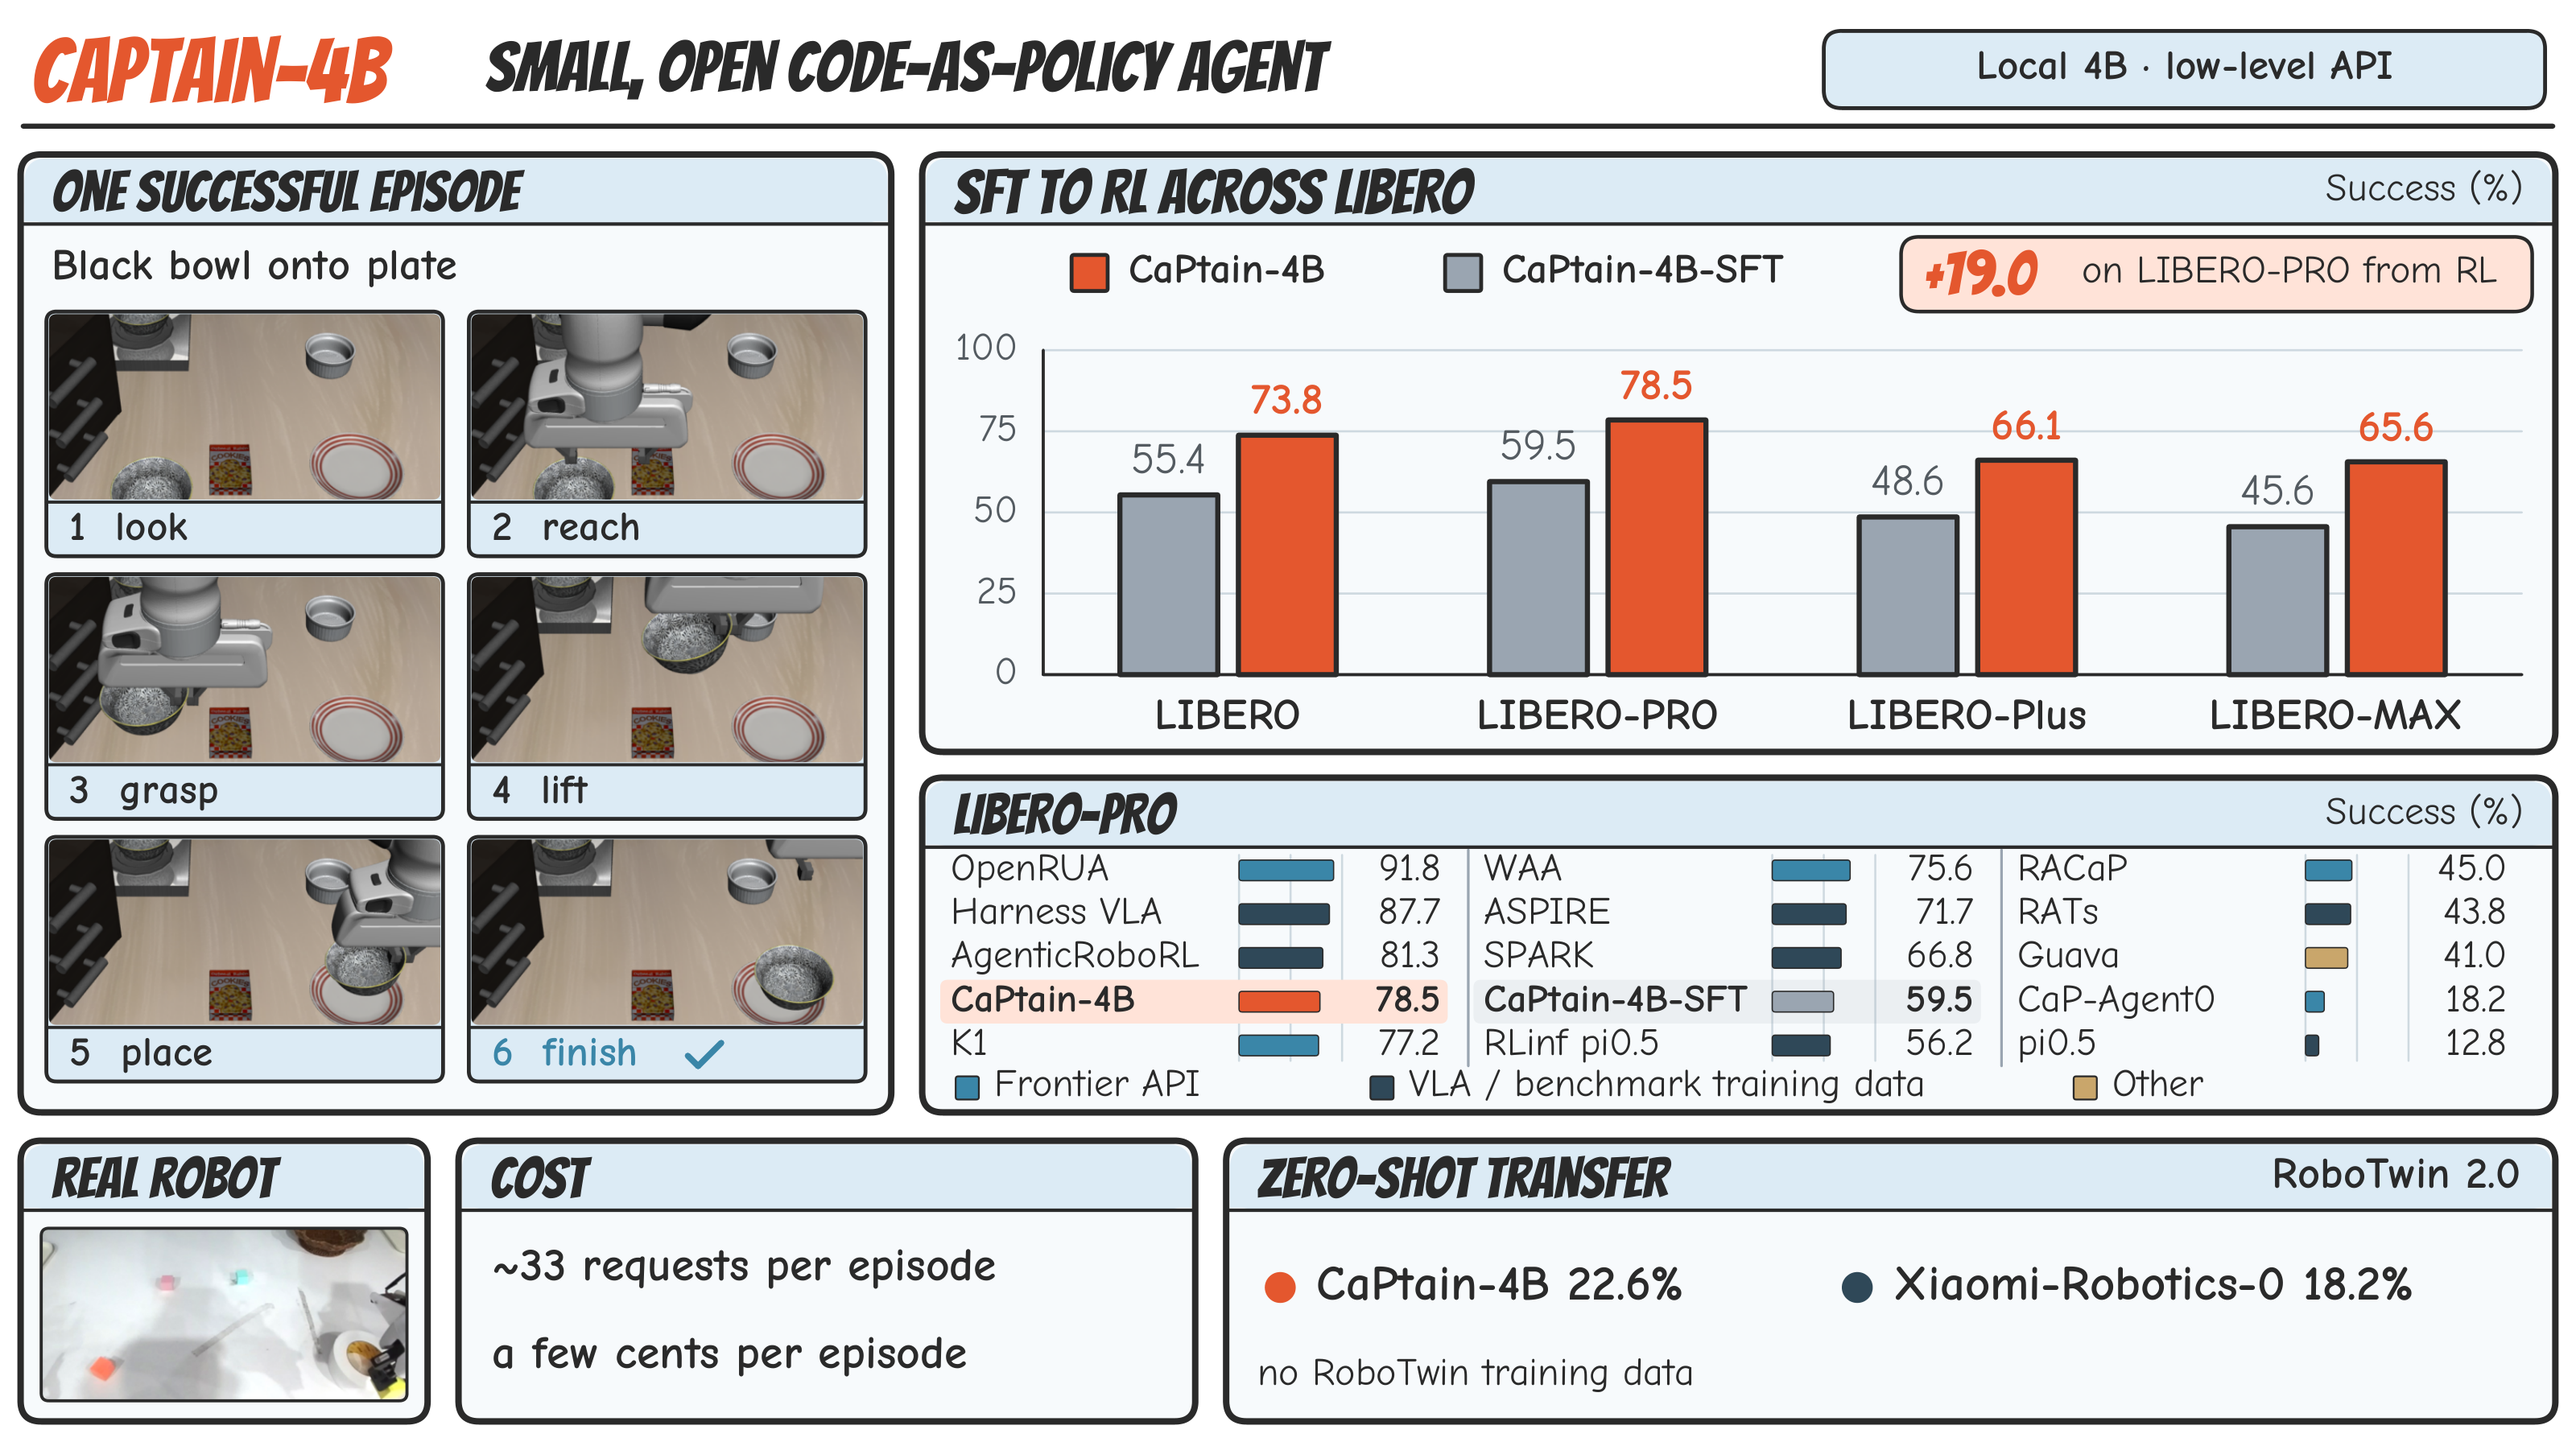
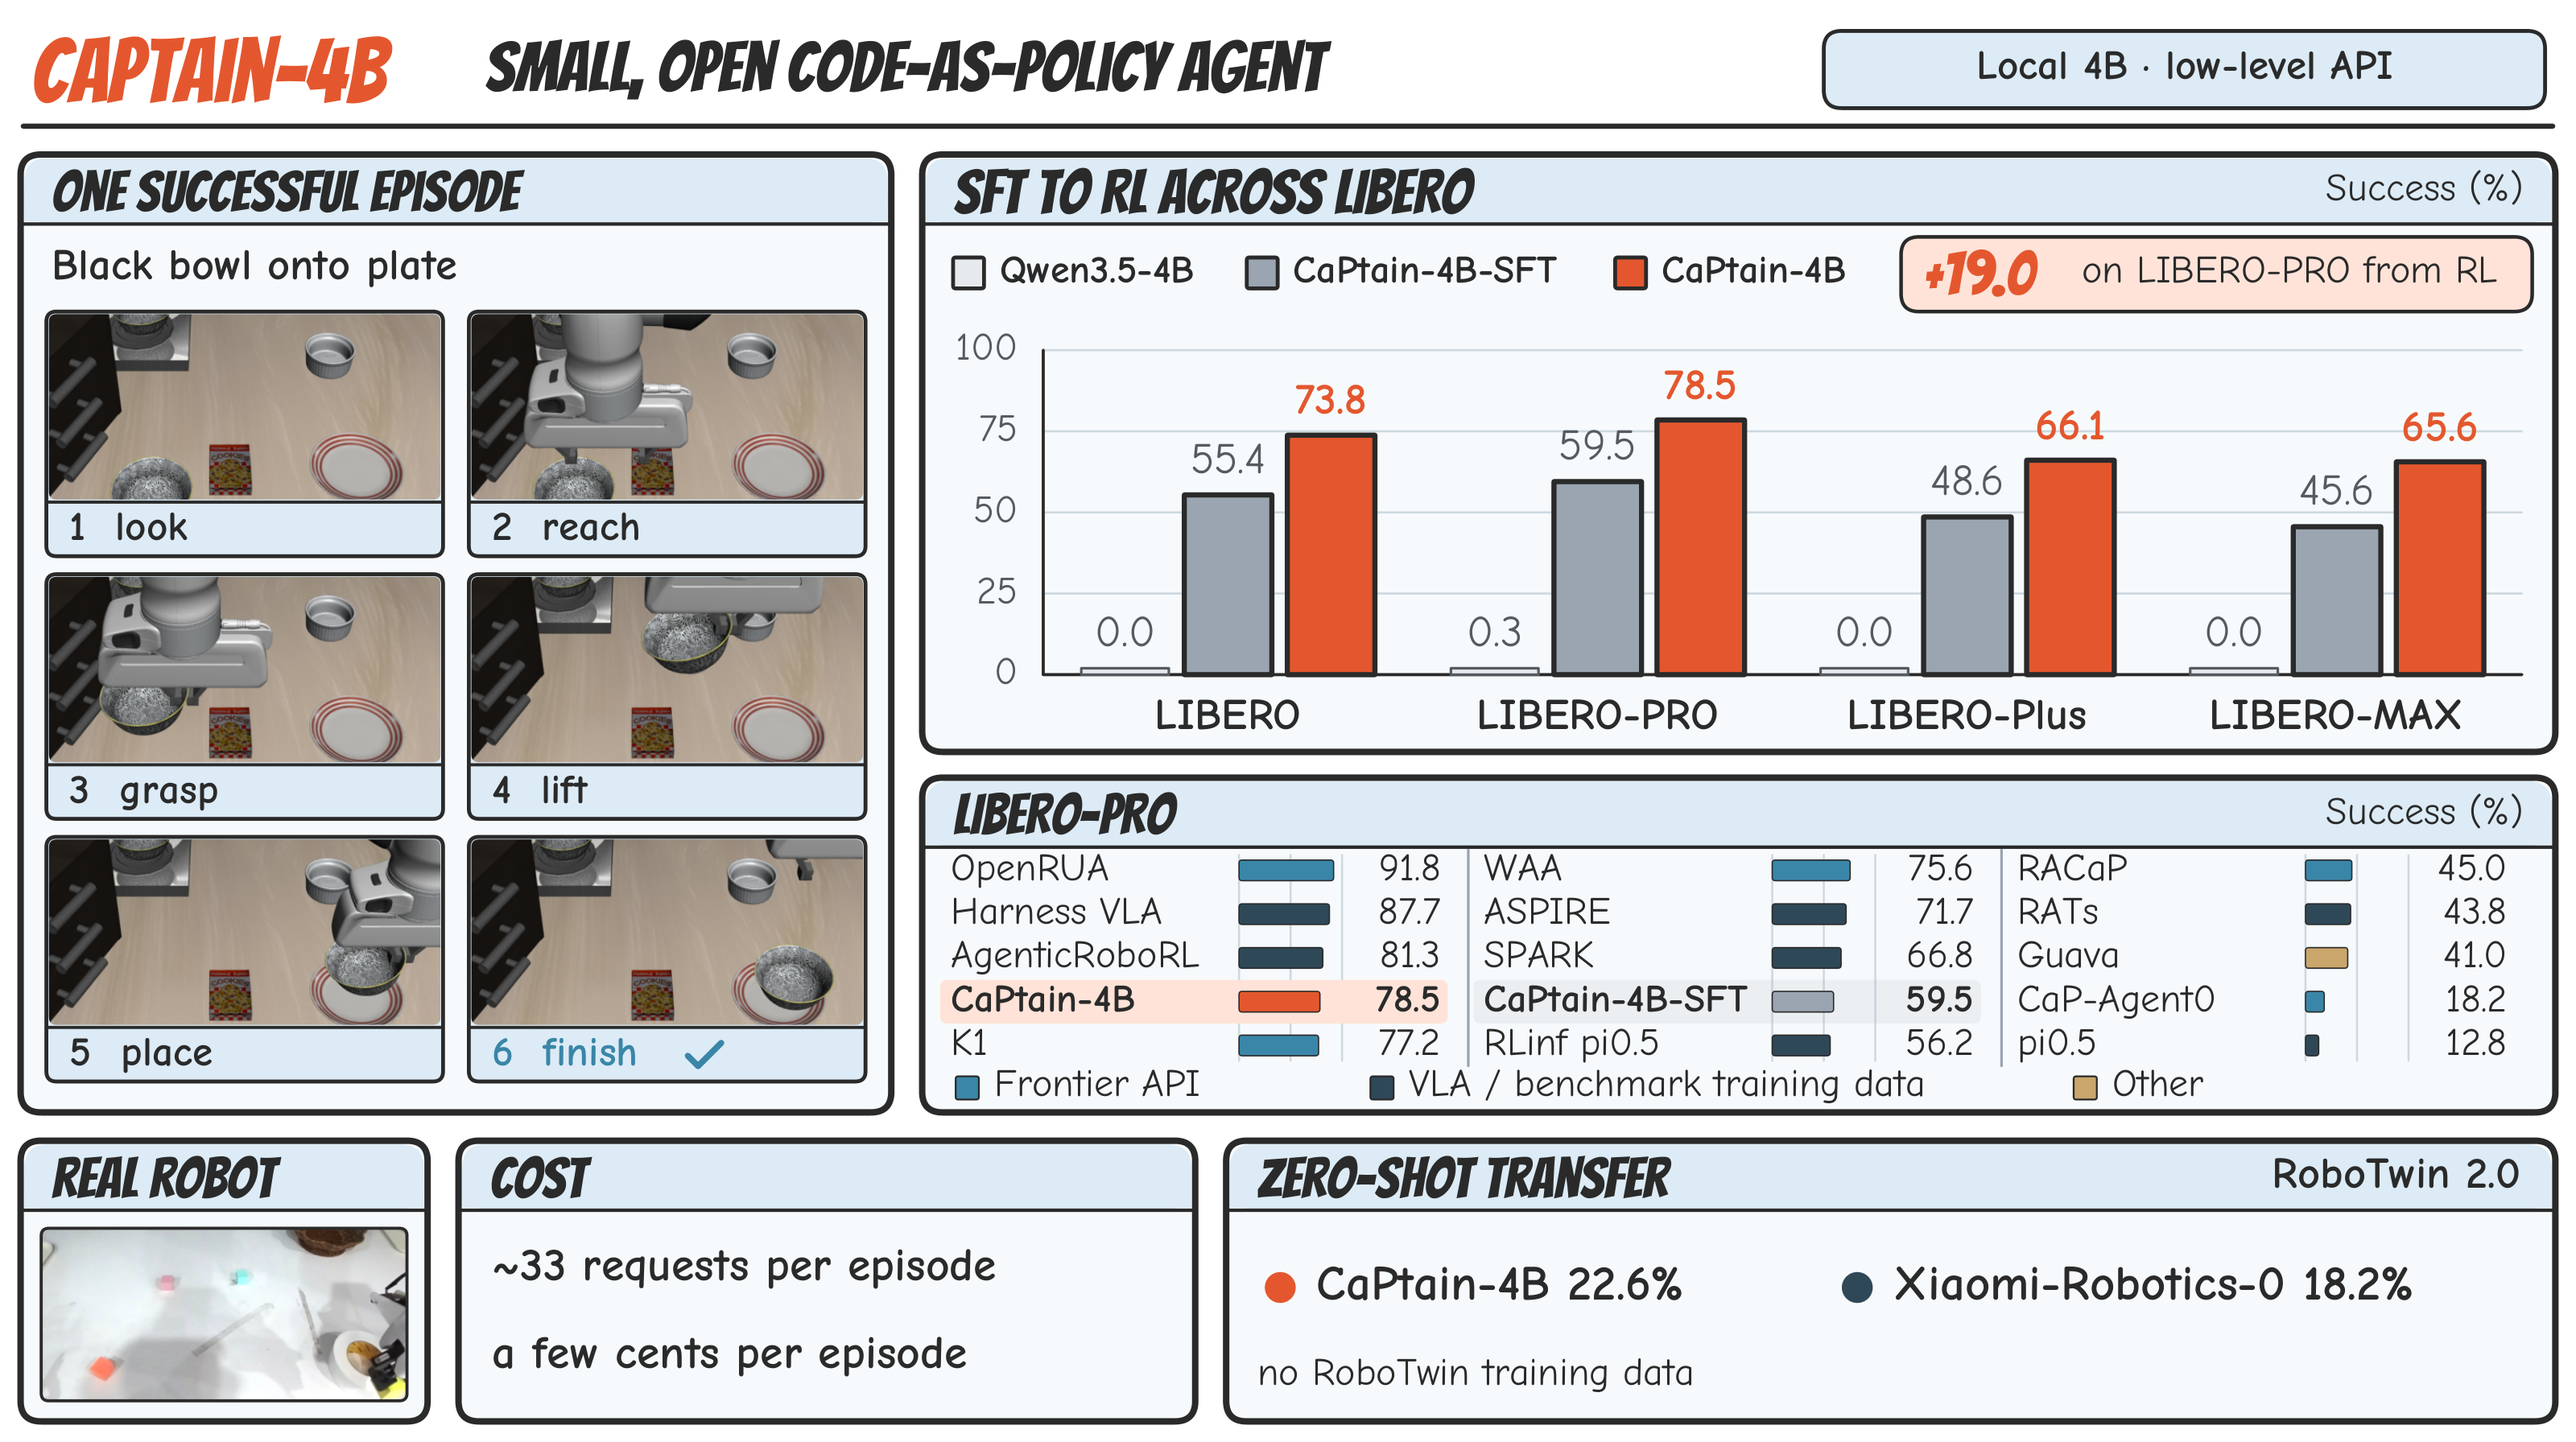
CaPtain page: teaser with base-model bars

Changed region(s): [[0.4062, 0.25, 0.6875, 0.4688], [0.7188, 0.2812, 0.9688, 0.4688], [0.375, 0.1562, 0.7188, 0.2188]]

diff --git a/captain/index.html b/captain/index.html
@@ -11,8 +11,8 @@
 <meta property="og:url" content="https://waltstephen.github.io/captain/">
 <meta name="twitter:card" content="summary_large_image">
 <link rel="icon" type="image/png" href="assets/img/favicon.png">
-<link rel="stylesheet" href="css/fonts.css?v=pub11">
-<link rel="stylesheet" href="css/style.css?v=pub11">
+<link rel="stylesheet" href="css/fonts.css?v=pub12">
+<link rel="stylesheet" href="css/style.css?v=pub12">
 <script>
   /* apply the saved / preferred theme before first paint */
   (function () {
@@ -114,11 +114,11 @@
     </div>
     <div class="card reveal" id="figStack">
       <figure class="figure" data-fig="0">
-        <img class="zoomable" src="assets/img/teaser.png?v=pub11" alt="CaPtain-4B at a glance: one successful episode, SFT to RL across LIBERO, LIBERO-PRO comparison, real robot, cost and zero-shot transfer" width="3200" height="1792">
+        <img class="zoomable" src="assets/img/teaser.png?v=pub12" alt="CaPtain-4B at a glance: one successful episode, SFT to RL across LIBERO, LIBERO-PRO comparison, real robot, cost and zero-shot transfer" width="3200" height="1792">
         <figcaption><b>CaPtain-4B at a glance.</b> A small, open code-as-policy agent: one successful LIBERO episode (look, reach, grasp, lift, place, finish), SFT → RL across the LIBERO family, its place among published LIBERO-PRO systems, the real robot, cost, and zero-shot transfer.</figcaption>
       </figure>
       <figure class="figure" data-fig="1" hidden>
-        <img class="zoomable" src="assets/img/method_overview.png?v=pub11" alt="Overview of CaPtain: inference in CaPtain-Harness (top) and training and test (bottom)" width="3200" height="1664" loading="lazy">
+        <img class="zoomable" src="assets/img/method_overview.png?v=pub12" alt="Overview of CaPtain: inference in CaPtain-Harness (top) and training and test (bottom)" width="3200" height="1664" loading="lazy">
         <figcaption><b>Overview of CaPtain.</b> <i>Top:</i> one episode in CaPtain-Harness. At each request the policy writes a Python cell against a low-level API and receives text receipts and new images, for up to 60 requests. <i>Bottom:</i> SFT on synthetic agent trajectories, then RL in which a simulator critic turns privileged physical state into per-request credit; the critic is removed at test time.</figcaption>
       </figure>
       <figure class="figure" data-fig="2" hidden>
@@ -370,9 +370,9 @@
 <div class="lightbox" id="lightbox" role="dialog" aria-modal="true" aria-label="Enlarged view"></div>
 <div class="tip" id="tip" role="tooltip"></div>
 
-<script src="data/episodes.js?v=pub11"></script>
-<script src="data/tables.js?v=pub11"></script>
-<script src="js/main.js?v=pub11"></script>
+<script src="data/episodes.js?v=pub12"></script>
+<script src="data/tables.js?v=pub12"></script>
+<script src="js/main.js?v=pub12"></script>
 <script>setTimeout(function(){document.querySelectorAll(".reveal:not(.in)").forEach(function(e){var r=e.getBoundingClientRect();if(r.top<innerHeight)e.classList.add("in")})},2500);</script>
 </body>
 </html>
